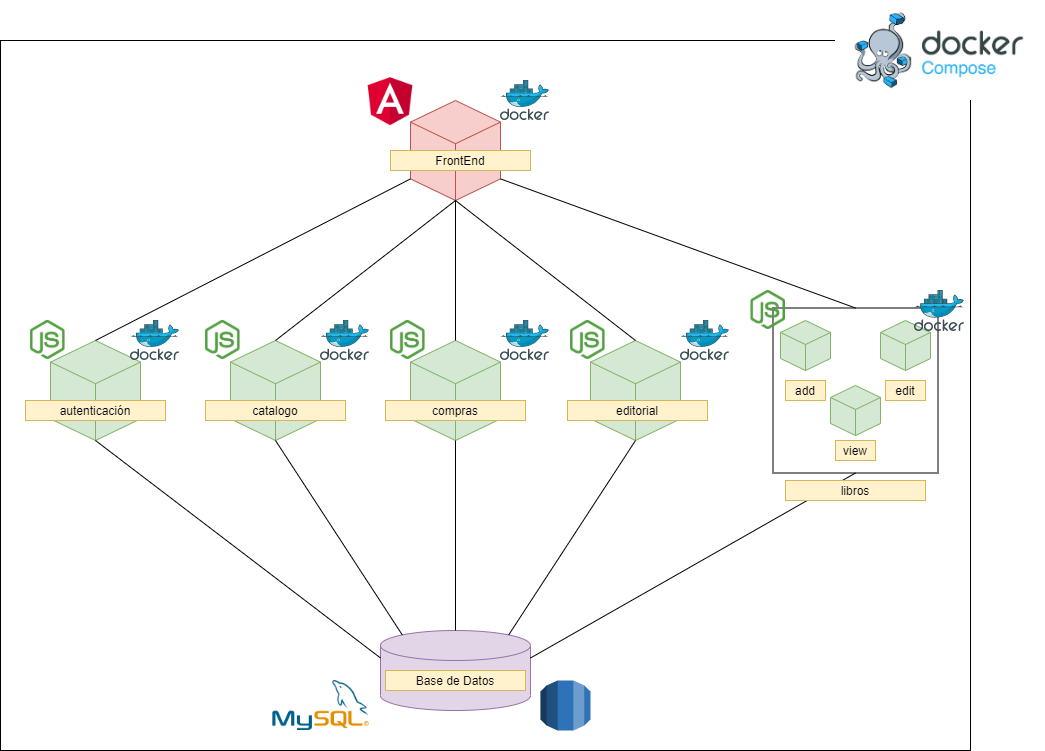
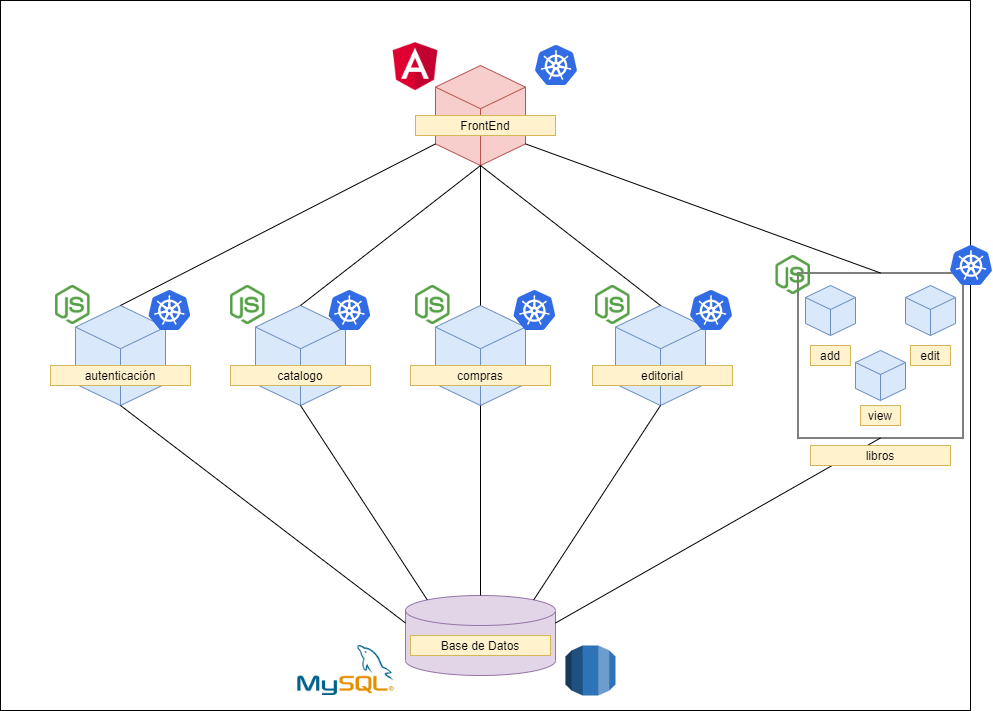
Cambios en la documentacion.

diff --git a/README.md b/README.md
@@ -34,4 +34,5 @@ El lenguaje que predomina en el desarrollo del proyecto es Javascript.
 - ![](imagenes_documentacion/prueba_viewbook3.PNG)  
 ---
 ### Arquitectura a implementar
-![](imagenes_documentacion/arquitectura.png)
+![](imagenes_documentacion/arquitectura.png)  
+![](imagenes_documentacion/kub.PNG)
